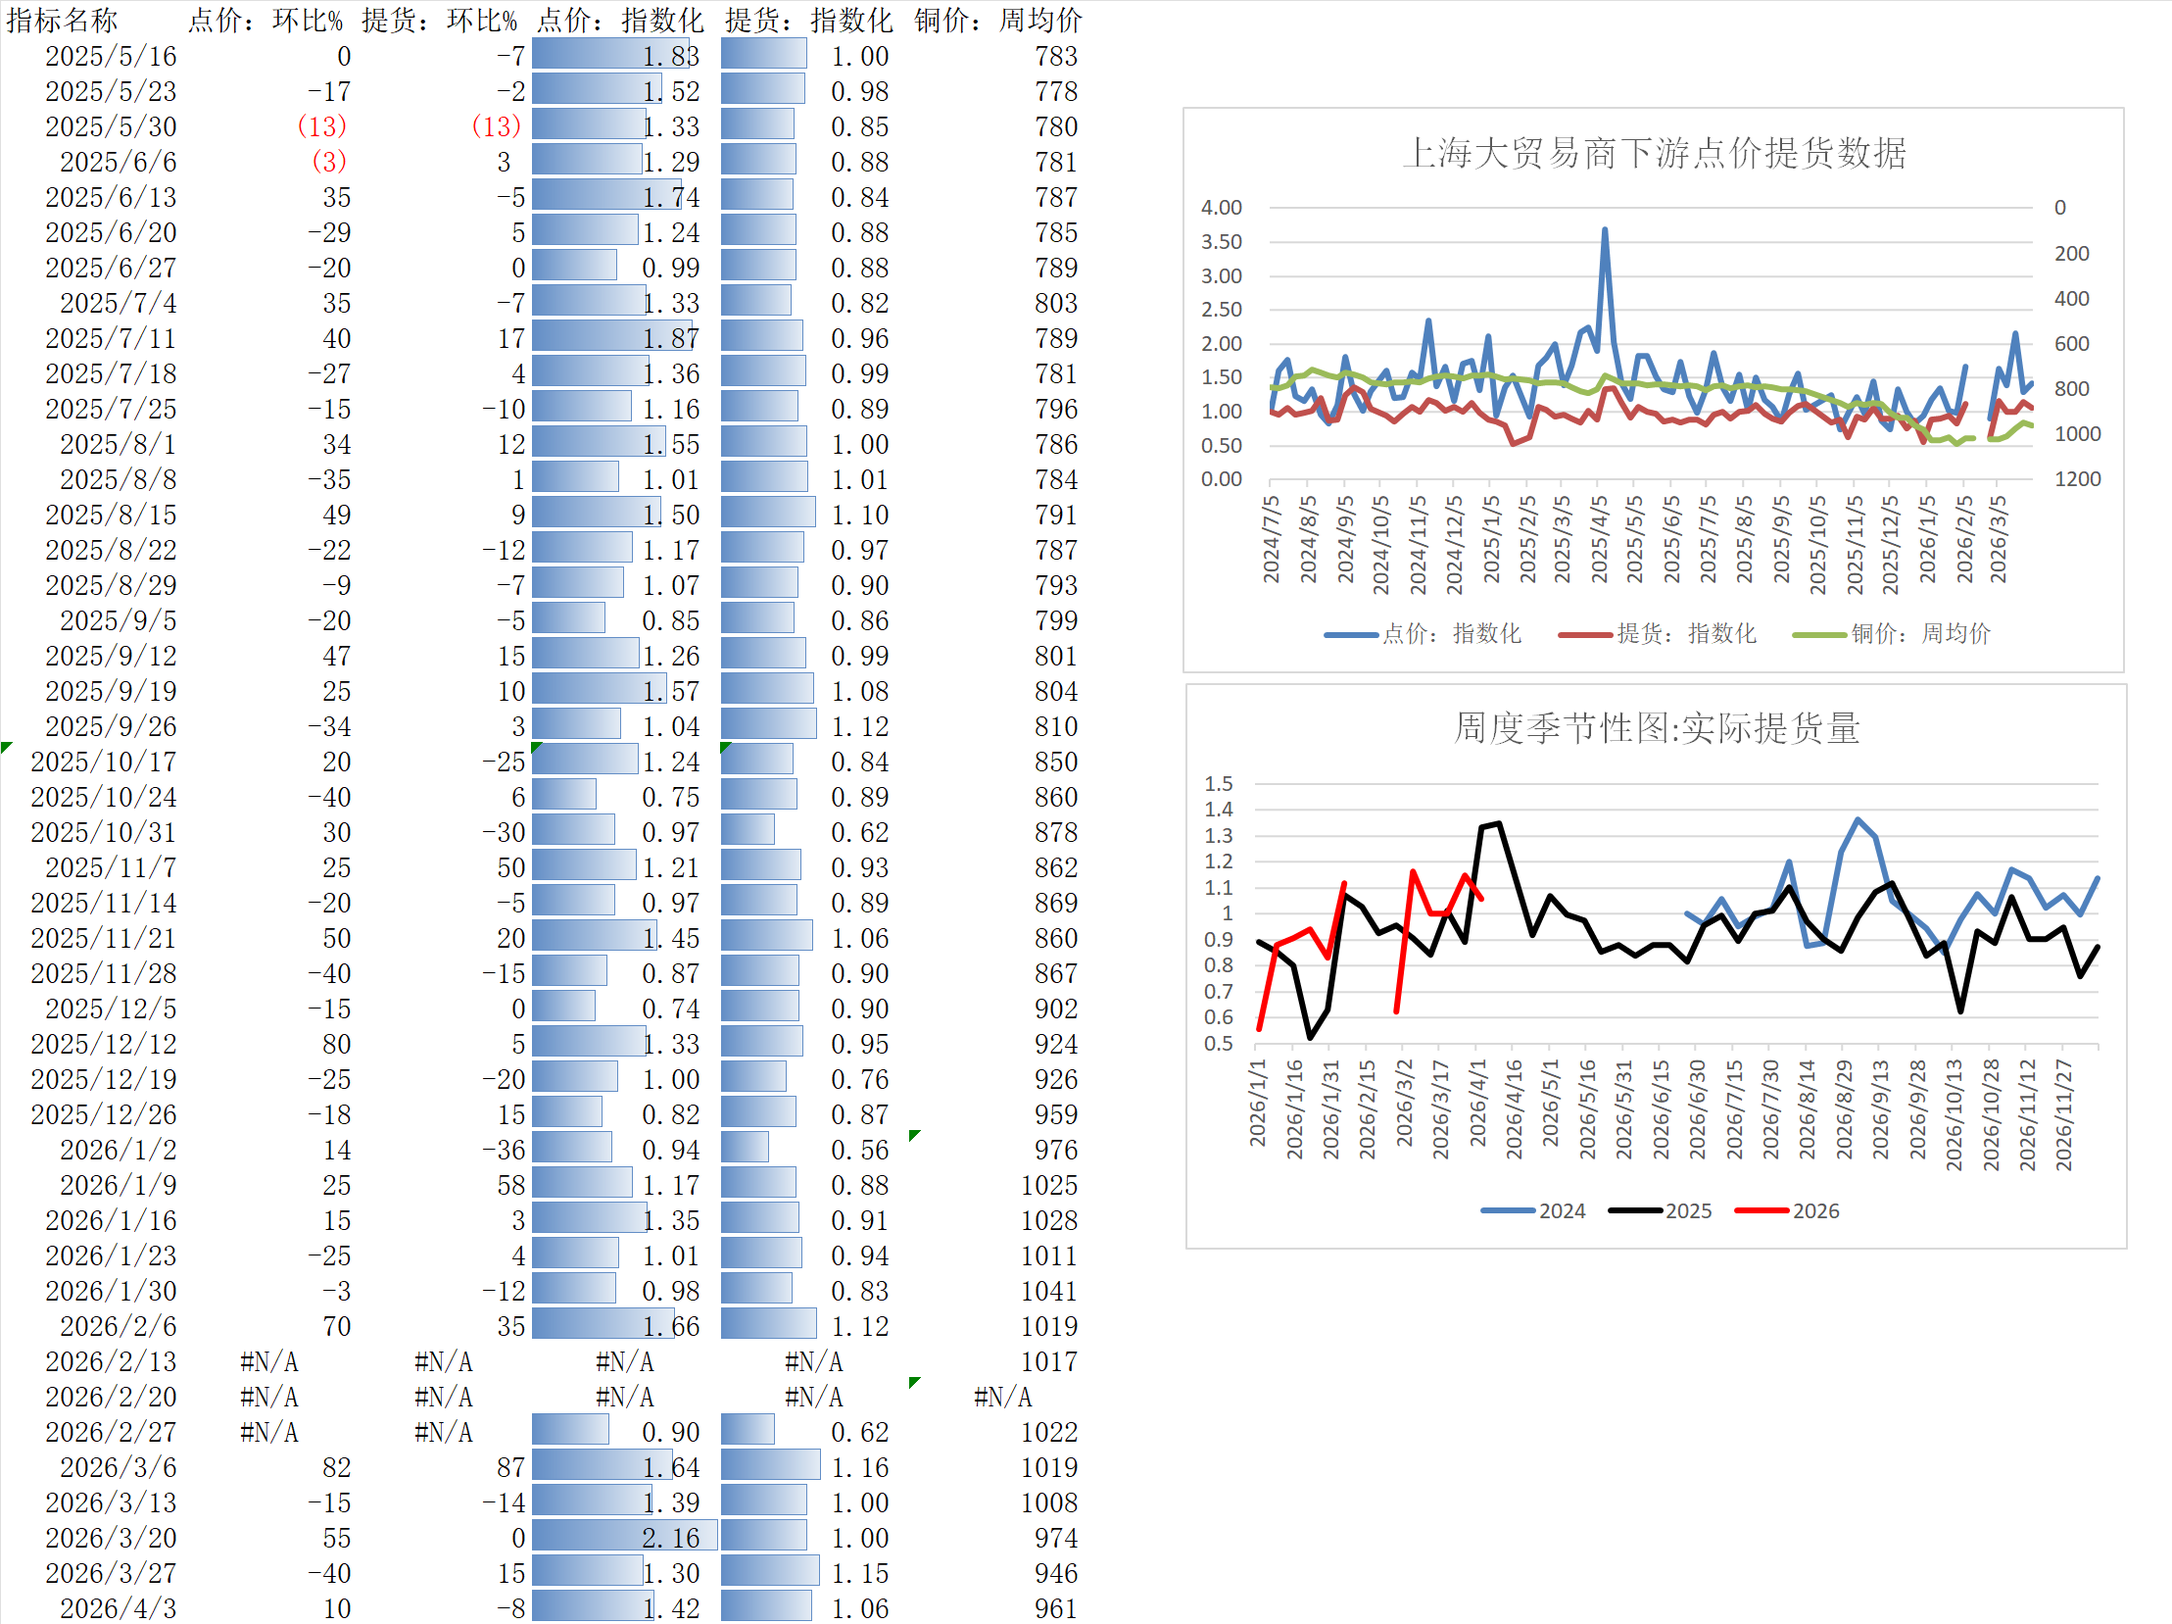
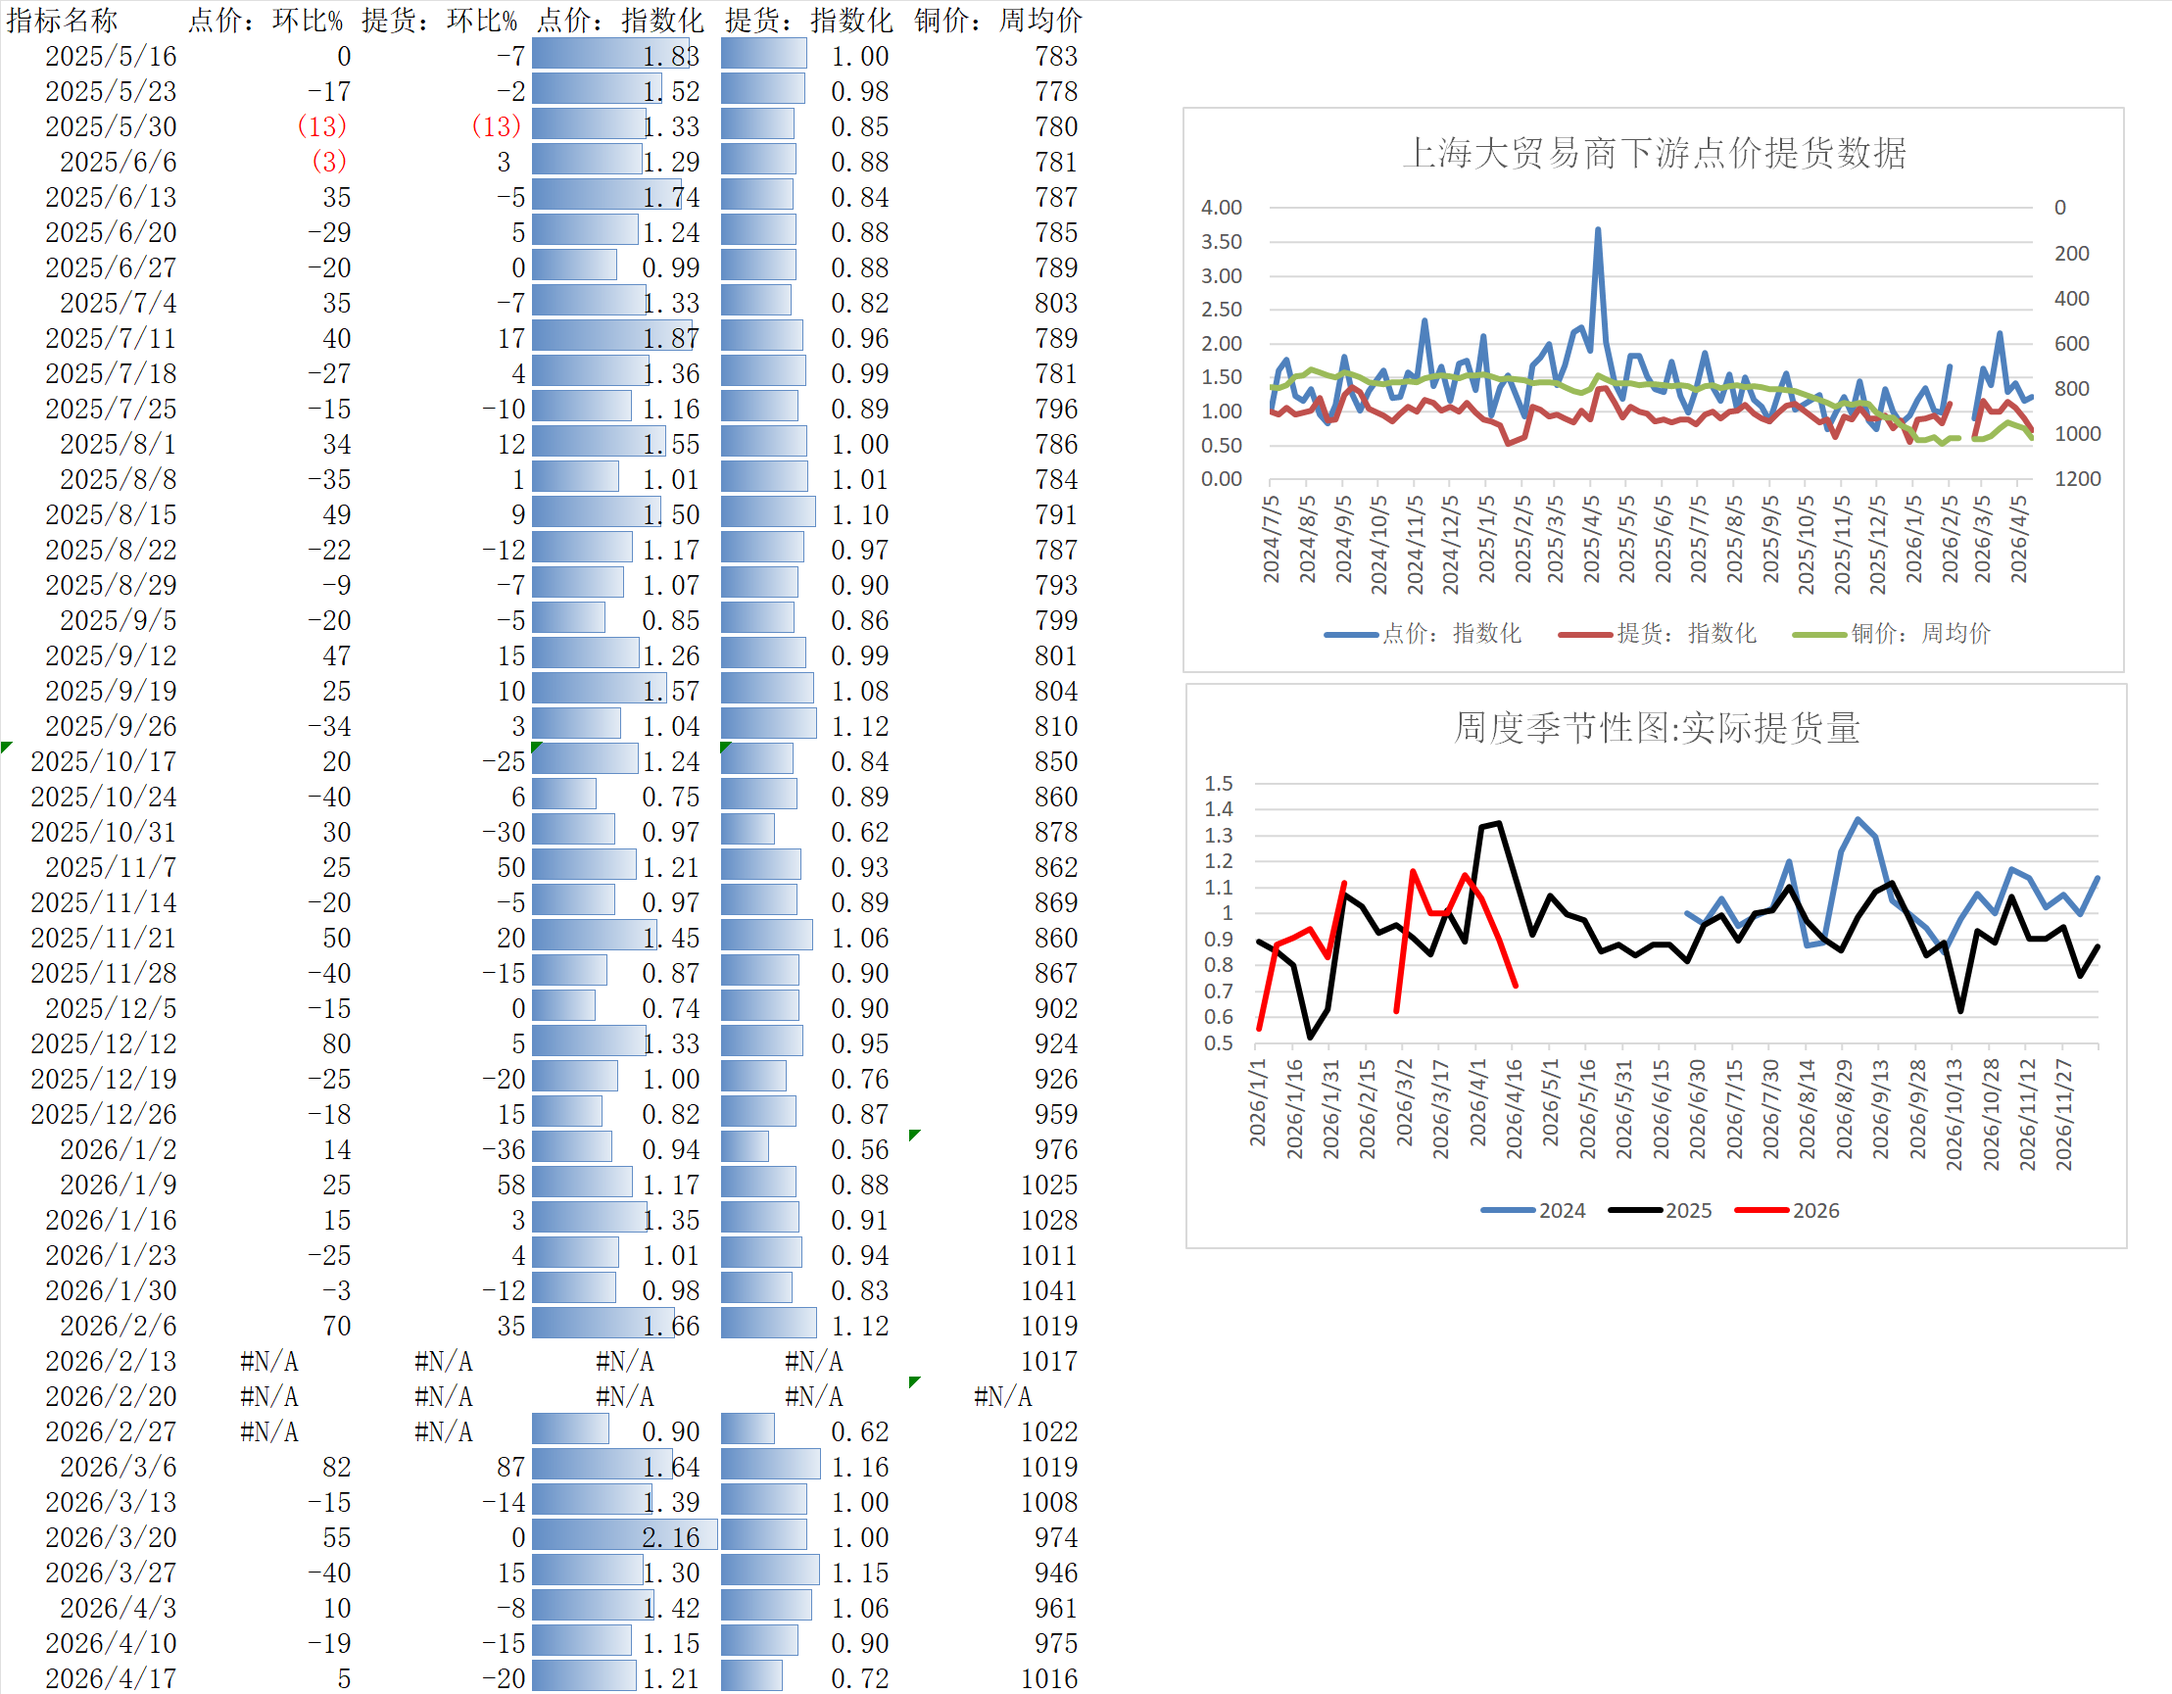
LAPTOP-KRS16UJL 2026-4-19:18:50:14

diff --git a/铜市场分析20260412.md b/铜市场分析20260412.md
@@ -1,6 +1,6 @@
 详细图表更新： https://yingfengwu-cn.github.io/qztz/
 
-周报总结：**周中铜价上涨4000受谈判预期影响风偏改善反弹，金铜比持续回落说明铜微观面支撑价格：1.本周SHFE-CMX价差-600rmb附近，自美国白宫4.2关税公告（电缆、变压器按货值+25%）后价差转负，但是基本面逻辑不支持；2.国内去库较快，目前头部加工企业保持满产可到月底，但是铜价影响采购原料节奏；3.（可能还未被交易）现实通航没有改善下海外硫磺供应问题受中国禁止硫酸出口政策加剧，非洲湿法铜（250w左右）成本抬升**。本周看到美国库存+10k，亚洲去库3k，欧洲本周没有继续累库<font color = red>LME亚洲库存-2.3k</font>，中国区去库-43k，全球库存-29k。下游前期订单开工电铜拿货量维持高位，去库中现货贴水转正，**本周铜价上涨（两杆差反弹至1300平衡点附近，但开工率没有明显回升，价差主要由于库存出清）**。周CIF升水+8至$69，升水处于历史中位偏上区间。从平衡表角度给予美国地区消费乐观增速+不去库（维持3个月以上库存天数）明年美国进口月均-6w~8w，这部分转而往亚洲区发运，国内消费增速回暖情形下能消耗增量进口，但是大幅短缺可能性仍有待验证。
+周报总结：**周中铜价上涨4000受谈判预期影响风偏改善反弹，金铜比持续回落说明铜微观面支撑价格：1.本周SHFE-CMX价差-600rmb附近，自美国白宫4.2关税公告（电缆、变压器按货值+25%）后价差转负，但是基本面逻辑不支持；2.国内去库较快，目前头部加工企业保持满产可到月底，但是铜价影响采购原料节奏；3.（可能还未被交易）现实通航没有改善下海外硫磺供应问题受中国禁止硫酸出口政策加剧，非洲湿法铜（250w左右）成本抬升**。本周看到美国库存+10k，亚洲去库3k，欧洲本周没有继续累库，中国区去库-43k，全球库存-29k。下游前期订单开工电铜拿货量连续第二周下滑，但是点价尚可。**本周铜价上涨（两杆差反弹至1300平衡点附近，但开工率没有明显回升，价差主要由于库存出清）**。周CIF升水+8至$69，升水处于历史中位偏上区间。从平衡表角度给予美国地区消费乐观增速+不去库（维持3个月以上库存天数）明年美国进口月均-6w~8w，这部分转而往亚洲区发运，国内消费增速回暖情形下能消耗增量进口，但是大幅短缺可能性仍有待验证。
 
 短期观点：<font color = red>**铜价反弹幅度已经比较充分，且通航不顺下各投行均下调gdp增速，目前建议观望，等待供应端扰动出现可逢低做多（95000附近）**；持仓结构看目前产业净空已经回到起涨前，外盘资金净多回到低位区间(由于数据滞后一周最新数据大概已经到低位)。</font>
 
@@ -12,9 +12,9 @@
 - <font size = 4>**周度主要变化简要**：本周国内微观数据中性，全球显性库存-29k（农历中国区库存回到同期低位区间），下游农历开工率同期继续新高，超过去年旺季高点。
 - **1. 精炼端：本周洋山铜溢价+8至+69美金，单周涨幅较大。**
 - - 库存：<font color = red>**中国区库存环比强去库-49k，节后去库快于季节性1-2周**。</font>
-- - 精铜杆开工：开工率环比-3.5%至80%，同比+5%。
-- - **废铜杆开工：**湖北废铜杆企业开工率-1%至18%，处于低位区间，两杆差+300至+1380，高于1200平衡线。因废铜原料紧张（税收因素，并非价格能完全解决），废铜杆加工企业后续继续增开工幅度有限。
-- - **电缆企业订单：**根据SMM调研，电缆企业开工率环比-1.5%至68.5%，同比-15.7%（由于目前消费结构变化，电缆需求增速低于全铜需求）
+- - 精铜杆开工：开工率环比-2.2%至77.8%，同比+0.2%。
+- - **废铜杆开工：**湖北废铜杆企业开工率+1.2%至19.2%，处于低位区间，两杆差+200至+1720，高于1200平衡线。因废铜原料紧张（税收因素，并非价格能完全解决），废铜杆加工企业后续继续增开工幅度有限。
+- - **电缆企业订单：**根据SMM调研，电缆企业开工率环比+1%至69.5%，同比-17.8%（由于目前消费结构变化，电缆需求增速低于全铜需求）
 
 
 - - 海外消息面更新：**Codelco明年电铜长单330美金，相较24年上升**，之前智利ET矿事故影响低于预期（智利冶炼被迫减产约3w），日本铜冶炼四季度减产；印尼自由港冶炼项目产量影响2月+紫金Kamoa项目影响15w。
